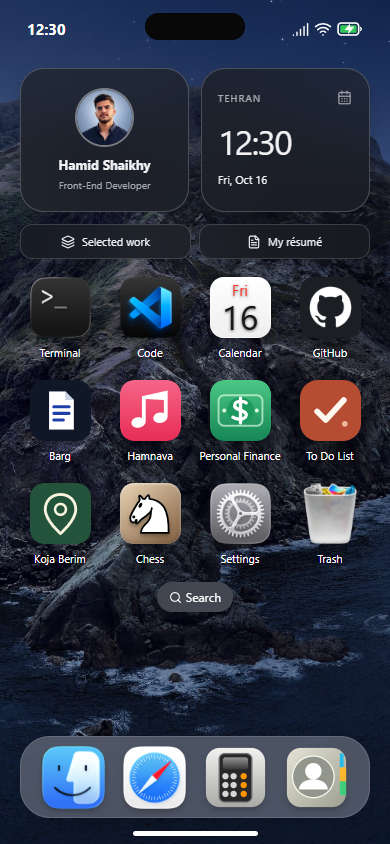
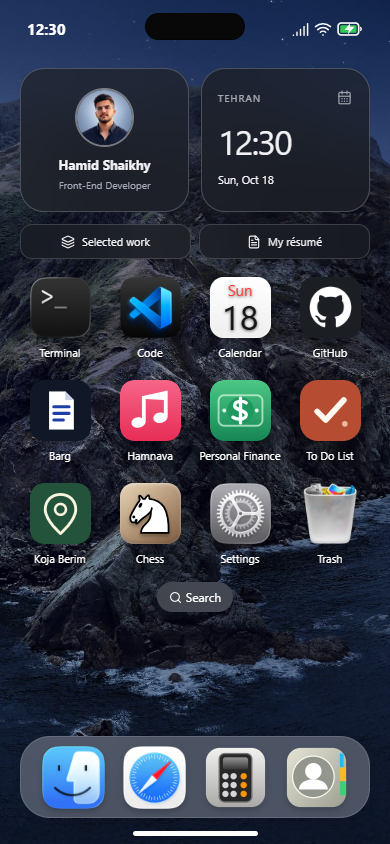
Fit mobile layout to the visible viewport and refresh phone screenshots

diff --git a/src/mobile-viewport.css b/src/mobile-viewport.css
@@ -1,0 +1,81 @@
+/* Only the phone shell: the desktop viewport and window geometry stay unchanged. */
+@media (max-width:767px), (pointer:coarse) and (max-width:1024px) and (max-height:500px) {
+  #root {
+    --mobile-safe-top: env(safe-area-inset-top, 0px);
+    --mobile-safe-right: env(safe-area-inset-right, 0px);
+    --mobile-safe-bottom: env(safe-area-inset-bottom, 0px);
+    --mobile-safe-left: env(safe-area-inset-left, 0px);
+    position: fixed;
+    top: var(--mobile-viewport-top, 0px);
+    left: 0;
+    height: 100%;
+    height: var(--mobile-viewport-height, 100dvh);
+    container: mobile-viewport / size;
+  }
+  .os-root.mobile {
+    --mobile-status-height: 58px;
+    --mobile-header-height: 49px;
+    --mobile-content-bottom: calc(24px + var(--mobile-safe-bottom));
+    height: 100%;
+  }
+  #root > .pf-experience.pf-standalone { height: 100%; }
+  .ios-shell {
+    padding-left: var(--mobile-safe-left);
+    padding-right: var(--mobile-safe-right);
+  }
+  .ios-status {
+    height: calc(var(--mobile-status-height) + var(--mobile-safe-top));
+    padding-top: var(--mobile-safe-top);
+  }
+  .dynamic-island { top: calc(13px + var(--mobile-safe-top)); }
+  .ios-shell .ios-home {
+    overflow: hidden;
+    padding-bottom: calc(26px + var(--mobile-safe-bottom));
+  }
+  .ios-home-scroll {
+    display: flex;
+    flex-direction: column;
+    flex: 1;
+    min-height: 0;
+    overflow: auto;
+    overscroll-behavior: contain;
+    scrollbar-width: none;
+  }
+  .ios-home-scroll::-webkit-scrollbar { display: none; }
+  .ios-home-scroll .ios-search { flex-shrink: 0; }
+  .ios-app { padding-bottom: var(--mobile-content-bottom); }
+  .ios-app-header { height: var(--mobile-header-height); }
+  .ios-embedded-runtime {
+    top: calc(var(--mobile-status-height) + var(--mobile-safe-top) + var(--mobile-header-height));
+    right: var(--mobile-safe-right);
+    bottom: var(--mobile-content-bottom);
+    left: var(--mobile-safe-left);
+  }
+  .home-indicator {
+    height: calc(22px + var(--mobile-safe-bottom));
+    padding-bottom: var(--mobile-safe-bottom);
+  }
+  .ios-control, .os-root.mobile .spotlight {
+    top: calc(var(--mobile-status-height) + var(--mobile-safe-top) + 10px);
+    left: calc(50% + (var(--mobile-safe-left) - var(--mobile-safe-right)) / 2);
+    width: calc(100% - 24px - var(--mobile-safe-left) - var(--mobile-safe-right));
+    max-height: calc(100% - var(--mobile-status-height) - var(--mobile-safe-top) - var(--mobile-safe-bottom) - 20px);
+  }
+  .os-root.mobile .spotlight { display: flex; flex-direction: column; }
+  .os-root.mobile .spotlight :is(.spotlight-search, .spotlight-categories, footer) { flex-shrink: 0; }
+  .os-root.mobile .spotlight-results { flex: 1; min-height: 0; max-height: none; }
+}
+
+@container mobile-viewport (max-height:620px) {
+  .os-root.mobile {
+    --mobile-status-height: 46px;
+    --mobile-header-height: 43px;
+  }
+  .ios-widgets > button { height: 75px; }
+  .ios-profile-widget img { width: 32px; height: 32px; }
+  .ios-quick-links { margin-bottom: 8px; }
+  .ios-app-grid { row-gap: 7px; }
+  .ios-app-grid .app-icon { width: 44px !important; height: 44px !important; }
+  .ios-app-grid > button { gap: 4px; }
+  .ios-search { margin: 6px auto; }
+}

diff --git a/src/lib/mobile-viewport.ts b/src/lib/mobile-viewport.ts
@@ -1,0 +1,38 @@
+export const mobileQuery = "(max-width: 767px), (pointer: coarse) and (max-width: 1024px) and (max-height: 500px)";
+
+/** Safari's visible area also changes without a layout-viewport resize. */
+export function trackMobileViewport(root: HTMLElement) {
+  const query = matchMedia(mobileQuery);
+  const viewport = window.visualViewport;
+  let frame = 0;
+  const clear = () => {
+    root.style.removeProperty('--mobile-viewport-height');
+    root.style.removeProperty('--mobile-viewport-top');
+  };
+  const update = () => {
+    frame = 0;
+    if (!query.matches) { clear(); return; }
+    // Preserve browser zoom instead of shrinking/reflowing the page during a pinch.
+    if (viewport && Math.abs(viewport.scale - 1) > .01) return;
+    const height = viewport?.height || window.innerHeight;
+    if (height <= 0) return;
+    root.style.setProperty('--mobile-viewport-height', `${height}px`);
+    root.style.setProperty('--mobile-viewport-top', `${Math.max(0, viewport?.offsetTop || 0)}px`);
+  };
+  const schedule = () => { if (!frame) frame = requestAnimationFrame(update); };
+  query.addEventListener('change', schedule);
+  window.addEventListener('resize', schedule);
+  window.addEventListener('orientationchange', schedule);
+  viewport?.addEventListener('resize', schedule);
+  viewport?.addEventListener('scroll', schedule);
+  update();
+  return () => {
+    cancelAnimationFrame(frame);
+    query.removeEventListener('change', schedule);
+    window.removeEventListener('resize', schedule);
+    window.removeEventListener('orientationchange', schedule);
+    viewport?.removeEventListener('resize', schedule);
+    viewport?.removeEventListener('scroll', schedule);
+    clear();
+  };
+}

diff --git a/src/main.tsx b/src/main.tsx
@@ -1,13 +1,19 @@
-import { lazy, StrictMode, Suspense } from "react";
+import { lazy, StrictMode, Suspense, useLayoutEffect } from "react";
 import { createRoot } from "react-dom/client";
 import "./styles.css";
 import "./project-preview.css";
 import "./upgrade.css";
+import { trackMobileViewport } from "./lib/mobile-viewport";
+function MobileViewport() {
+  useLayoutEffect(() => trackMobileViewport(document.getElementById('root')!), []);
+  return null;
+}
 const App = lazy(() => import("./App"));
 const Portfolio = lazy(() => import("./portfolio/PortfolioExperience"));
 const standalone = window.location.pathname.replace(/\/$/, "") === `${import.meta.env.BASE_URL}portfolio`;
 createRoot(document.getElementById("root")!).render(
   <StrictMode>
+    <MobileViewport />
     <Suspense fallback={<div style={{height:'100%',background:'#091b1d'}} aria-label="Loading portfolio" />}>
       {standalone ? <Portfolio mode="standalone" /> : <App />}
     </Suspense>
@@ -17,3 +23,4 @@ import "./refinement.css";
 import "./github.css";
 import "./portfolio.css";
 import "./shell-refinements.css";
+import "./mobile-viewport.css";

diff --git a/src/shell-refinements.css b/src/shell-refinements.css
@@ -52,7 +52,7 @@
   .ios-quick-links { margin-bottom:18px; }
   .calculator-app { max-width:360px; padding:0 16px 16px; }
 }
-@media (max-width:767px) and (max-height:700px) {
+@container mobile-viewport (max-height:700px) {
   .ios-home { padding:6px 16px 26px; }
   .ios-widgets > button { height:85px; border-radius:19px; }
   .ios-profile-widget { padding:5px; }
@@ -75,7 +75,7 @@
   .ios-dock { height:68px; min-height:68px; padding:8px; border-radius:23px; }
   .ios-dock .app-icon { width:51px!important; height:51px!important; }
 }
-@media (max-width:1024px) and (max-height:500px) {
+@container mobile-viewport (min-width:500px) and (max-height:500px) {
   .ios-home { padding:5px 25px 26px; }
   .ios-home .ios-widgets { display:none; }
   .ios-quick-links { margin-bottom:12px; }

diff --git a/index.html b/index.html
@@ -7,6 +7,12 @@
       content="width=device-width, initial-scale=1.0, viewport-fit=cover"
     />
     <meta name="theme-color" content="#131b3a" />
+    <meta name="mobile-web-app-capable" content="yes" />
+    <meta name="apple-mobile-web-app-capable" content="yes" />
+    <meta name="apple-mobile-web-app-status-bar-style" content="black-translucent" />
+    <meta name="apple-mobile-web-app-title" content="macfolio" />
+    <link rel="manifest" href="%BASE_URL%manifest.webmanifest" />
+    <link rel="apple-touch-icon" href="%BASE_URL%assets/app-icons/macfolio-180.png" />
     <script>
       try {
         const saved = localStorage.getItem('macfolio.preferences.v1') ?? localStorage.getItem('hamidos.preferences.v1');

diff --git a/src/components/Mobile.tsx b/src/components/Mobile.tsx
@@ -76,6 +76,7 @@ export function Mobile() {
         </section>
       ) : (
         <main className="ios-home">
+          <div className="ios-home-scroll">
           <div className="ios-widgets">
             <button
               className="ios-profile-widget"
@@ -128,6 +129,7 @@ export function Mobile() {
           >
             <Search size={13} /> Search
           </button>
+          </div>
           <div className="ios-dock">
             {mobileDock.map((a) => (
               <button

diff --git a/src/lib/hooks.ts b/src/lib/hooks.ts
@@ -1,6 +1,6 @@
 import { useEffect, useState } from "react";
 import { useOS } from "../state/os";
-const mobileQuery = "(max-width: 767px), (pointer: coarse) and (max-width: 1024px) and (max-height: 500px)";
+import { mobileQuery } from "./mobile-viewport";
 export function useClock() {
   const [now, setNow] = useState(new Date());
   useEffect(() => {

diff --git a/docs/QA.md b/docs/QA.md
@@ -118,3 +118,14 @@ The portfolio's broader earlier regression runs covered scroll-driven project/ca
 To Do List and Hamnava are available in the shared project collection, GitHub view, Projects gallery, Safari project list and Spotlight, and in the standalone/embedded English portfolio. Eight real repository screenshots are preserved as PNG for Macfolio and encoded as WebP for the portfolio. To Do List screenshots depict the web/PWA interface; the Android APK and React Native / Expo implementation are identified separately. Hamnava's case study identifies Audius streaming, browser-local accounts and offline app-shell support without implying offline music downloads.
 
 The portfolio contains eight projects and four journey entries, starting with independent App Developer work. The scroll lengths scale with the number of entries. The production build, unused-symbol TypeScript check and 42 unit tests pass. Chrome and WebKit checks pass for all project dialogs and galleries, cross-app discovery, mobile galleries, counters and scroll transitions at 320×568, 390×844, 820×1180 and 1440×1000. Each active journey card is checked for text overflow. An initial WebKit test race was corrected by waiting for modal focus before Escape and confirming closure before testing background scroll; no application workaround was required.
+
+
+## Mobile visible viewport — 2026-10-18
+
+The phone shell and standalone portfolio follow `visualViewport.height` and its offset as browser bars or the keyboard change the visible area. Pinch zoom remains browser-controlled. Compact layouts now query the actual root container height. Home content scrolls separately from the Dock; safe-area insets protect the top, bottom and sides, including embedded apps, Control Center and search. Desktop viewport/window geometry is unchanged.
+
+The root manifest requests standalone display when launched from the phone home screen, with iOS web-app metadata and icons derived from the existing favicon. No root service worker, offline caching, install prompt or new in-app controls were added. A regular Safari tab retains its browser controls; the home-screen launch is the route to app-style display without the URL/toolbar chrome.
+
+Verification includes 44 passing unit tests, production builds, and Chromium/WebKit checks for simulated browser-bar and keyboard changes, safe insets, portrait/landscape phone sizes, native/embedded app bounds, standalone portfolio sizing, unchanged desktop bounds and home-screen display metadata. Existing project/journey scroll and mobile app/PDF/audio checks were retained. The responsive matrix now includes Koja Berim; its startup journey check targets the middle of an entry instead of an exact subpixel boundary. Physical iPhone/iPad installation and browser-bar behavior still require a device check.
+
+The three phone images used by README were recaptured without browser errors using `npm run screenshots:readme -- --mobile-only`; desktop README images were left intact.
